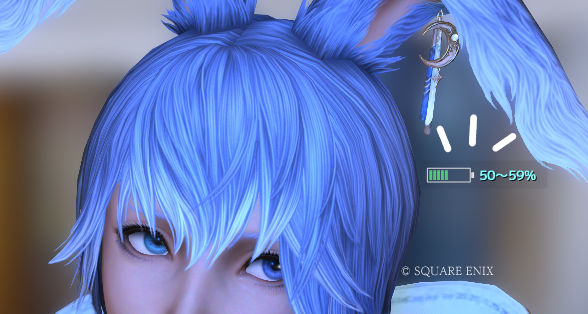
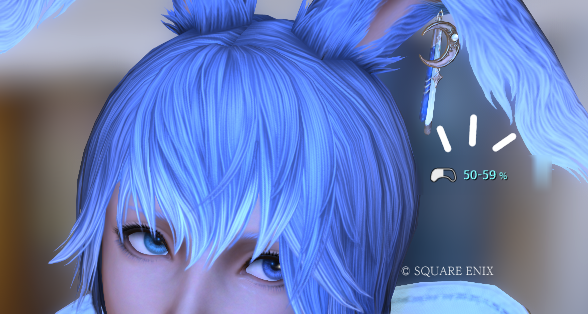
ゲージの色（白を既定）と、小さい表示でボタンを省く（v1.5.1）
- 「ゲージの色」を足す：白（既定）／残量の色。白いゲージの上ではチェックを緑に
- 文字の大きさ「普通」「小」では、コントローラーの十字キーとボタンを描かない
- 表示の絵を作る部分を Compose に切り出す（README の見本の画像づくりから呼ぶ）
- README の説明と画像3枚を新しい表示に合わせる

Changed region(s): [[0.7041, 0.4873, 0.949, 0.6019]]

diff --git a/DS4Battery.cs b/DS4Battery.cs
@@ -454,7 +454,8 @@ class BatteryForm : Form
         bool usedBefore = File.Exists(settingsPath) || File.Exists(alphaPath) || File.Exists(stylePath);
         batteryStyle = File.Exists(BatteryPath) || !usedBefore ? 3 : 0;
         try { batteryStyle = Math.Max(0, Math.Min(3, int.Parse(File.ReadAllText(BatteryPath).Trim()))); } catch { }
-        if (!usedBefore && !File.Exists(BatteryPath)) SaveBattery();   // 次に開いたときも同じ表示になるよう、最初に書いておく
+        if (!usedBefore && !File.Exists(BatteryPath)) SaveBattery();
+        try { gaugeWhite = File.ReadAllText(GaugePath).Trim() != "color"; } catch { }   // 次に開いたときも同じ表示になるよう、最初に書いておく
         try
         {
             var p = File.ReadAllText(stylePath).Trim().Split(new[] { ',' }, 4);
@@ -541,6 +542,17 @@ class BatteryForm : Form
         }
         batMenu.DropDownOpening += (s, e) => { foreach (ToolStripMenuItem it in batMenu.DropDownItems) it.Checked = (int)it.Tag == batteryStyle; };
         menu.Items.Add(batMenu);
+
+        var gaugeMenu = new ToolStripMenuItem("ゲージの色");
+        foreach (var opt in new[] { Tuple.Create("白", true), Tuple.Create("残量の色（緑・黄・赤）", false) })
+        {
+            bool v = opt.Item2;
+            var it = new ToolStripMenuItem(opt.Item1, null, (s, e) => { gaugeWhite = v; SaveGauge(); Render(); });
+            it.Tag = v;
+            gaugeMenu.DropDownItems.Add(it);
+        }
+        gaugeMenu.DropDownOpening += (s, e) => { foreach (ToolStripMenuItem it in gaugeMenu.DropDownItems) it.Checked = (bool)it.Tag == gaugeWhite; };
+        menu.Items.Add(gaugeMenu);
         startupItem = new ToolStripMenuItem("Windows の起動時に自動で開く", null, (s, e) => ToggleStartup());
         menu.Items.Add(startupItem);
         menu.Items.Add(new ToolStripSeparator());
@@ -641,6 +653,13 @@ class BatteryForm : Form
     int batteryStyle = 0;              // 0 いまの（10マス）／1 コンパクト／2 電池の絵なし／3 コントローラーの形
 
     string BatteryPath { get { return Path.Combine(Path.GetDirectoryName(settingsPath), "battery.txt"); } }
+    bool gaugeWhite = true;            // 残量のゲージ：白一色（既定）／残量の色（緑・黄・赤・充電中の青）
+    string GaugePath { get { return Path.Combine(Path.GetDirectoryName(settingsPath), "gauge.txt"); } }
+    void SaveGauge()
+    {
+        try { Directory.CreateDirectory(Path.GetDirectoryName(settingsPath)); File.WriteAllText(GaugePath, gaugeWhite ? "white" : "color"); } catch { }
+    }
+    static readonly Color GaugeWhite = Color.FromArgb(235, 235, 235);
 
     void SaveBattery()
     {
@@ -898,10 +917,11 @@ class BatteryForm : Form
     // 未接続のときの絵：ゲームのコントローラーの形に「／」の斜線。幅 PadW×k、中心 (cx, cy)。
     const float PadScale = 0.8f, PadW = 32f * PadScale;   // 絵は少し小さめ（電池の絵に近い高さ）
 
-    internal static void DrawPadOff(Graphics g, float cx, float cy, float u) { DrawPad(g, cx, cy, u, 0, Color.Empty, true); }
+    internal static void DrawPadOff(Graphics g, float cx, float cy, float u, bool details = true) { DrawPad(g, cx, cy, u, 0, Color.Empty, true, details); }
 
     // コントローラーの絵。fill（0〜1）の分だけ左から中を color で塗る。slash で「／」を重ねる。
-    internal static void DrawPad(Graphics g, float cx, float cy, float u, float fill, Color color, bool slash)
+    // details：十字キーとボタンを描くか（小さい表示ではつぶれるので描かない）
+    internal static void DrawPad(Graphics g, float cx, float cy, float u, float fill, Color color, bool slash, bool details = true)
     {
         cy -= 1.15f * u;   // 握りの分だけ下に長い形なので、見た目の上下の真ん中を cy に合わせる
         Func<float, float, PointF> P = (x, y) => new PointF(cx + x * u, cy + y * u);
@@ -930,22 +950,25 @@ class BatteryForm : Form
             using (var pen = new Pen(line, 1.5f * u) { LineJoin = rj }) g.DrawPath(pen, pad);
         }
         // 十字キーとボタン（塗った上でも見えるよう黒いふちを付ける）
-        var dpad = new[] { new[] { P(-10.5f, -2.5f), P(-5.5f, -2.5f) }, new[] { P(-8, -5), P(-8, 0) } };
-        var btn = new[] { P(8, -5), P(8, 0), P(5.5f, -2.5f), P(10.5f, -2.5f) };
-        float r = 1.1f * u;
-        bool filled = fill > 0 && !color.IsEmpty;
-        if (filled)
+        if (details)
         {
-            using (var ol = new Pen(Color.FromArgb(170, 0, 0, 0), 2.6f * u) { StartCap = round, EndCap = round })
-                foreach (var d in dpad) g.DrawLine(ol, d[0], d[1]);
-            using (var ob = new SolidBrush(Color.FromArgb(170, 0, 0, 0)))
-                foreach (var d in btn) g.FillEllipse(ob, d.X - r - 0.6f * u, d.Y - r - 0.6f * u, 2 * r + 1.2f * u, 2 * r + 1.2f * u);
+            var dpad = new[] { new[] { P(-10.5f, -2.5f), P(-5.5f, -2.5f) }, new[] { P(-8, -5), P(-8, 0) } };
+            var btn = new[] { P(8, -5), P(8, 0), P(5.5f, -2.5f), P(10.5f, -2.5f) };
+            float r = 1.1f * u;
+            bool filled = fill > 0 && !color.IsEmpty;
+            if (filled)
+            {
+                using (var ol = new Pen(Color.FromArgb(170, 0, 0, 0), 2.6f * u) { StartCap = round, EndCap = round })
+                    foreach (var d in dpad) g.DrawLine(ol, d[0], d[1]);
+                using (var ob = new SolidBrush(Color.FromArgb(170, 0, 0, 0)))
+                    foreach (var d in btn) g.FillEllipse(ob, d.X - r - 0.6f * u, d.Y - r - 0.6f * u, 2 * r + 1.2f * u, 2 * r + 1.2f * u);
+            }
+            var mark = filled ? Color.White : line;
+            using (var pen = new Pen(mark, 1.4f * u) { StartCap = round, EndCap = round })
+                foreach (var d in dpad) g.DrawLine(pen, d[0], d[1]);
+            using (var dot = new SolidBrush(mark))
+                foreach (var d in btn) g.FillEllipse(dot, d.X - r, d.Y - r, 2 * r, 2 * r);
         }
-        var mark = filled ? Color.White : line;
-        using (var pen = new Pen(mark, 1.4f * u) { StartCap = round, EndCap = round })
-            foreach (var d in dpad) g.DrawLine(pen, d[0], d[1]);
-        using (var dot = new SolidBrush(mark))
-            foreach (var d in btn) g.FillEllipse(dot, d.X - r, d.Y - r, 2 * r, 2 * r);
         if (slash)
         {
             // 斜線「／」：黒いふちの上に赤
@@ -1013,8 +1036,13 @@ class BatteryForm : Form
         if (!IsHandleCreated) return;
         string text; int seg; Color col; int mark;
         Describe(out text, out seg, out col, out mark);
+        using (var bmp = Compose(text, seg, col, mark, !reader.Connected)) Push(bmp);
+    }
+
+    // 表示の絵を作る（README の見本づくりからも呼ぶ）。off＝未接続：コントローラーの絵に斜線だけ（文字なし）
+    internal Bitmap Compose(string text, int seg, Color col, int mark, bool off)
+    {
         bool bolt = mark == MarkBolt;
-        bool off = !reader.Connected;           // 未接続：コントローラーの絵に斜線だけ（文字なし）
 
         float k = fontPt / 10f;                 // 文字の大きさに合わせて全体を拡大縮小
         // 電池の絵の幅：いまの（10マス）／コンパクト（小さい電池）／なし（文字だけ）
@@ -1039,7 +1067,7 @@ class BatteryForm : Form
         badgeRect = badge ? new RectangleF(bdx, (h - bd) / 2f, bd, bd) : RectangleF.Empty;
         if (Width != w || Height != h) Size = new Size(w, h);
 
-        using (var bmp = new Bitmap(w, h, System.Drawing.Imaging.PixelFormat.Format32bppPArgb))
+        var bmp = new Bitmap(w, h, System.Drawing.Imaging.PixelFormat.Format32bppPArgb);
         {
             using (var g = Graphics.FromImage(bmp))
             {
@@ -1059,10 +1087,12 @@ class BatteryForm : Form
                         using (var pen = new Pen(col, 2)) g.DrawPath(pen, path);
                 }
 
-                if (off) DrawPadOff(g, 8 * k + PadW * k / 2f, h / 2f, PadScale * k);
+                bool details = fontPt > 10.5f;                        // 「普通」「小」では十字キーとボタンを描かない
+                Color gauge = gaugeWhite && col != Color.Gray ? GaugeWhite : col;
+                if (off) DrawPadOff(g, 8 * k + PadW * k / 2f, h / 2f, PadScale * k, details);
 
                 if (batteryStyle == 3 && !off)
-                    DrawPad(g, 8 * k + PadW * k / 2f, h / 2f, PadScale * k, seg / 10f, col, false);
+                    DrawPad(g, 8 * k + PadW * k / 2f, h / 2f, PadScale * k, seg / 10f, gauge, false, details);
 
                 if (batteryStyle <= 1 && !off)
                 {
@@ -1070,7 +1100,7 @@ class BatteryForm : Form
                     using (var pen = new Pen(Color.FromArgb(220, 220, 220), 1.5f * k)) g.DrawRectangle(pen, body.X, body.Y, body.Width, body.Height);
                     using (var nub = new SolidBrush(Color.FromArgb(220, 220, 220)))
                         g.FillRectangle(nub, body.Right + 1 * k, body.Y + bh * 0.3f, 2.5f * k, bh * 0.4f);
-                    using (var br = new SolidBrush(col))
+                    using (var br = new SolidBrush(gauge))
                     {
                         if (batteryStyle == 0)
                         {
@@ -1112,7 +1142,8 @@ class BatteryForm : Form
                         var pts = new[] { Q(-3.6f, 0f), Q(-1f, 2.8f), Q(3.8f, -3f) };
                         var round = System.Drawing.Drawing2D.LineCap.Round; var rj = System.Drawing.Drawing2D.LineJoin.Round;
                         using (var ol = new Pen(Color.FromArgb(220, 0, 0, 0), 4.2f * cu) { StartCap = round, EndCap = round, LineJoin = rj }) g.DrawLines(ol, pts);
-                        using (var ck = new Pen(Color.White, 2.2f * cu) { StartCap = round, EndCap = round, LineJoin = rj }) g.DrawLines(ck, pts);
+                        using (var ck = new Pen(gaugeWhite ? Color.FromArgb(80, 200, 120) : Color.White, 2.2f * cu) {   // 白いゲージの上では緑のチェック
+                             StartCap = round, EndCap = round, LineJoin = rj }) g.DrawLines(ck, pts);
                     }
                     else
                     {
@@ -1153,16 +1184,21 @@ class BatteryForm : Form
                 }
             }
 
-            IntPtr screen = GetDC(IntPtr.Zero), mem = CreateCompatibleDC(screen);
-            IntPtr hbmp = bmp.GetHbitmap(Color.FromArgb(0)), old = SelectObject(mem, hbmp);
-            try
-            {
-                var size = new SZ { W = w, H = h }; var src = new PT();
-                var blend = new BLEND { Op = 0, Flags = 0, Alpha = 255, Format = 1 /* AC_SRC_ALPHA */ };
-                UpdateLayeredWindow(Handle, screen, IntPtr.Zero, ref size, mem, ref src, 0, ref blend, 2 /* ULW_ALPHA */);
-            }
-            finally { SelectObject(mem, old); DeleteObject(hbmp); DeleteDC(mem); ReleaseDC(IntPtr.Zero, screen); }
         }
+        return bmp;
+    }
+
+    void Push(Bitmap bmp)
+    {
+        IntPtr screen = GetDC(IntPtr.Zero), mem = CreateCompatibleDC(screen);
+        IntPtr hbmp = bmp.GetHbitmap(Color.FromArgb(0)), old = SelectObject(mem, hbmp);
+        try
+        {
+            var size = new SZ { W = bmp.Width, H = bmp.Height }; var src = new PT();
+            var blend = new BLEND { Op = 0, Flags = 0, Alpha = 255, Format = 1 /* AC_SRC_ALPHA */ };
+            UpdateLayeredWindow(Handle, screen, IntPtr.Zero, ref size, mem, ref src, 0, ref blend, 2 /* ULW_ALPHA */);
+        }
+        finally { SelectObject(mem, old); DeleteObject(hbmp); DeleteDC(mem); ReleaseDC(IntPtr.Zero, screen); }
     }
 
     [STAThread]
@@ -1197,7 +1233,7 @@ class BatteryForm : Form
 // 動いている exe は上書きできないが名前は変えられるので、今の exe を .old にして新しい exe を置く。
 static class Updater
 {
-    public const string Current = "1.5.0";
+    public const string Current = "1.5.1";
     const string Api = "https://api.github.com/repos/lath60/DS4Battery/releases/latest";
     const string AssetName = "DS4Battery.exe";
 

diff --git a/README.md b/README.md
@@ -11,7 +11,7 @@ Windows に BluetoothやUSBでつないだ **DUALSHOCK 4 / DualSense** のバッ
 - 画面のすみに小さく、ほかのウィンドウより前に表示
 - コントローラーの形の絵（中を残量の分だけ塗ります）と残量（例：`50-59%`）を表示。電池の絵（10マス）などにも切り替えられます
 - コントローラーがつながっていないときは、コントローラーの絵に赤い斜線を重ねて表示
-- 残量で色が変わる：緑 → 黄色（39%以下）→ 赤・赤い枠（19%以下）
+- 残り19%以下は赤い枠で知らせます。ゲージ（残量の塗り）や文字を、残量の色（緑 → 黄色（39%以下）→ 赤（19%以下））にすることもできます
 - USB ケーブルをつなぐと、充電中は絵に稲妻のマークと残量、満充電になると「FULL」を表示（充電の要らないときはチェックのマーク）
 - マウスを乗せると、機種名と接続方法（Bluetooth / USB）を表示
 - 左ドラッグで好きな位置へ移動可能
@@ -22,6 +22,7 @@ Windows に BluetoothやUSBでつないだ **DUALSHOCK 4 / DualSense** のバッ
   - フォント変更（PCに入っているフォントから選択できます）
   - 文字の色変更
   - 電池の表示（コントローラー／10マス／コンパクト／なし）
+  - ゲージの色（白／残量の色）
   - Windowsの起動時に自動で開く
   - 新しい版があるときは「新しい版があります → 更新する」（押すと自動で入れ替えて開き直します）
   - 終了
@@ -43,9 +44,9 @@ DUALSHOCK 4・DualSense の本体は、残量を **10%きざみ（0〜10の11段
 
 と出し分けています。アプリを開いたときにはもうつないであったときは、前の様子が分からないので「FULL」と出します。
 
-<img src="docs/marks.png" width="420" alt="充電中と、充電しすぎを防いでいるときの表示">
+<img src="docs/marks.png" width="396" alt="充電中と、充電しすぎを防いでいるときの表示">
 
-左が充電中（稲妻）、右が充電しすぎを防いでいるとき（チェック）です。上から「10マス」「コンパクト」「電池の絵なし」の表示です。
+左が充電中（稲妻）、右が充電しすぎを防いでいるとき（チェック）です。上から「コントローラー」「10マス」「コンパクト」「なし」の表示です。
 
 ## 使い方
 
